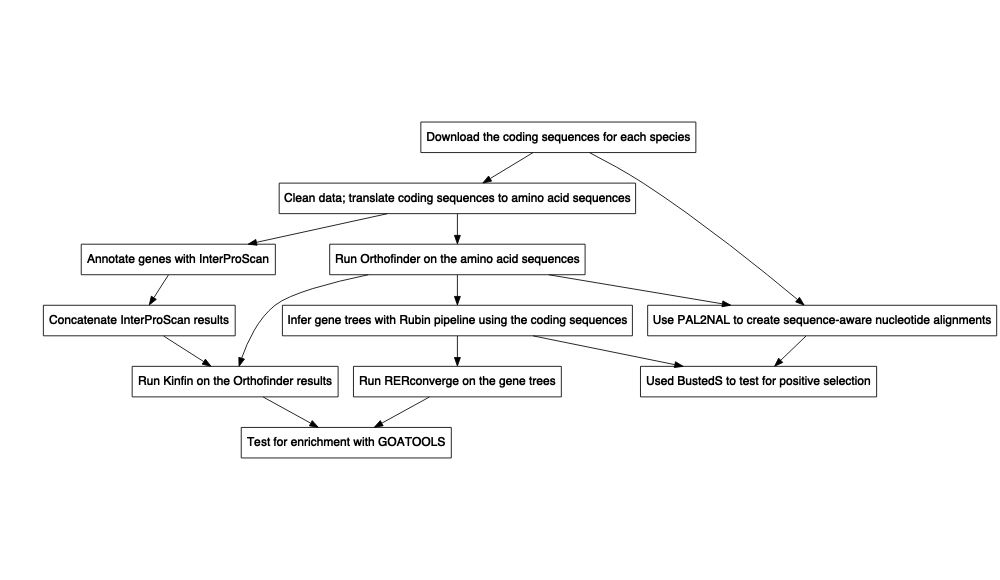
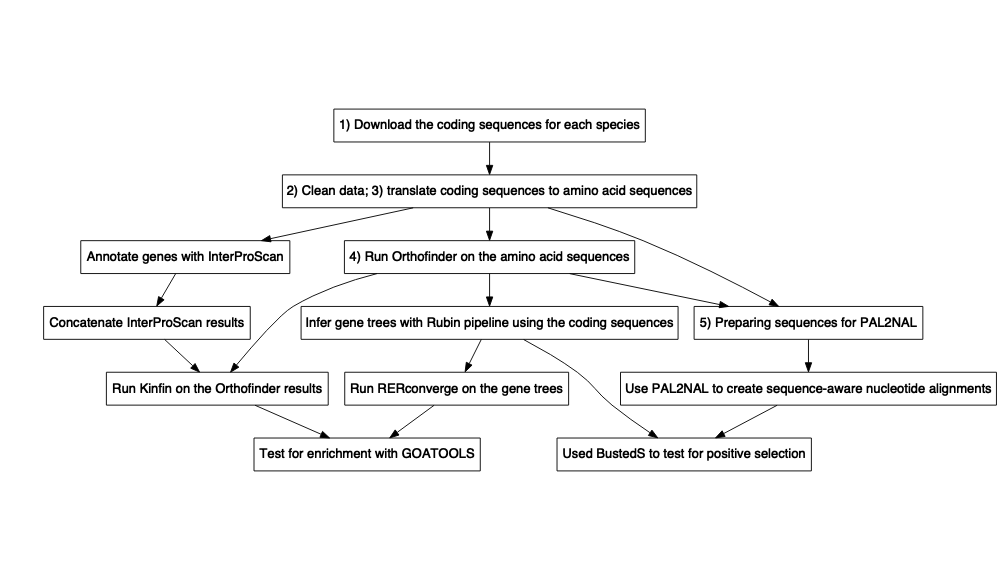
Writing script to subset nucleotide sequence files for PAL2NAL and updating README with that information.

Changed region(s): [[0.031, 0.1862, 1.0, 0.8379], [0.62, 0.6207, 1.0, 0.7138], [0.558, 0.7448, 0.806, 0.8379]]

diff --git a/README.md b/README.md
@@ -2,7 +2,7 @@ Comparative Genomic Analysis Workflow
 ================
 Megan Barkdull
 
-## 1\. Introduction
+## Introduction
 
 This repository hosts the workflow for a comparative genomics analysis.
 The general overview
@@ -16,7 +16,7 @@ To use this workflow, simply clone this repository onto your own
 machine. You will run all Bash scripts in the main directory associated
 with this repository (i.e., in `/FormicidaeMolecularEvolution/`)
 
-## Downloading data:
+## 1\. Downloading data:
 
 For a project of this kind, you will need transcript data from your
 species of interest. The Bash script `DataDownload` can download these
@@ -38,7 +38,7 @@ following command in a Bash shell:
 This will create a new directory, `./RawData`, containing the downloaded
 transcript files.
 
-## Cleaning the raw data:
+## 2\. Cleaning the raw data:
 
 The raw data is likely to have several features that will make future
 steps difficult or annoying. To solve this problem, you’ll want to run
@@ -52,7 +52,7 @@ beginning of each gene name. To run this script, simply use the command:
 This will create a new directory, `./CleanedData`, that contains the
 cleaned transcript files.
 
-## Translating nucleotide sequences to amino acid sequences:
+## 3\. Translating nucleotide sequences to amino acid sequences:
 
 For many steps of this workflow, you’ll actually need amino acid
 sequences rather than protein sequences. Therefore, we’ll need to
@@ -91,7 +91,7 @@ contains the translated transcript files.
 If you use Transdecoder, please cite it as: Haas, B., and A.
 Papanicolaou. “TransDecoder.” (2017).
 
-## Running Orthofinder:
+## 4\. Running Orthofinder:
 
 Next, we will use [Orthofinder](https://davidemms.github.io) to identify
 groups of orthologous genes in our amino acid sequences, and to produce
@@ -132,7 +132,9 @@ Please also cite MAFFT:
     method for rapid multiple sequence alignment based on fast Fourier
     transform. Nucleic Acids Res. 30(14): 3059-3066.
 
-## Reordering multiple sequence alignment files
+## 5\. Preparing files for PAL2NAL:
+
+### Reordering multiple sequence alignment files for PAL2NAL
 
 Orthofinder produces a single file for every individual orthogroup,
 containing the alignments for the sequences in that orthogroup. However,
@@ -153,6 +155,14 @@ something like
 Then use the command:
 
 `./scripts/DataMSA ./scripts/inputurls ./PathToMSAFiles`
+
+### Filtering coding sequences for PAL2NAL:
+
+The nucleotide sequence file that is run through PAL2NAL can have only
+the genes that are also present in the protein alignment file. Since our
+protein alignment files contain only a subset of genes, we need to
+filter through the nucleotide sequence files so that they too contain
+only this subset. To do this, use the script `DataPAL2NALPrep`
 
 For the step where you must convert the outputs of OrthoFinder to be
 inputs for RERConverge, please see the [Comparative Genomics
